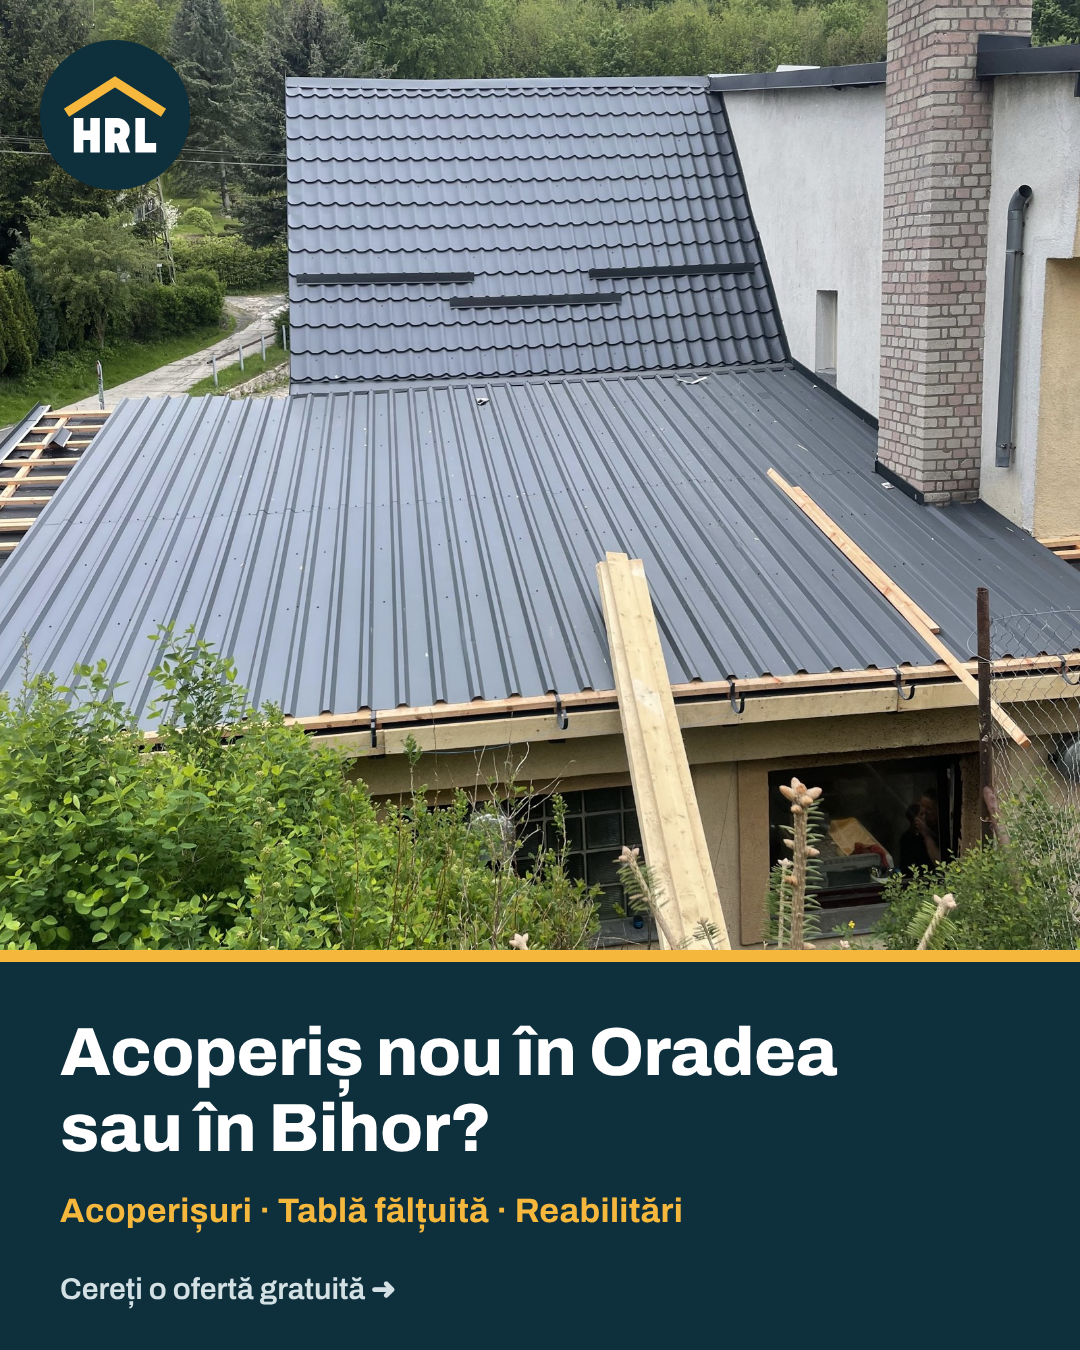
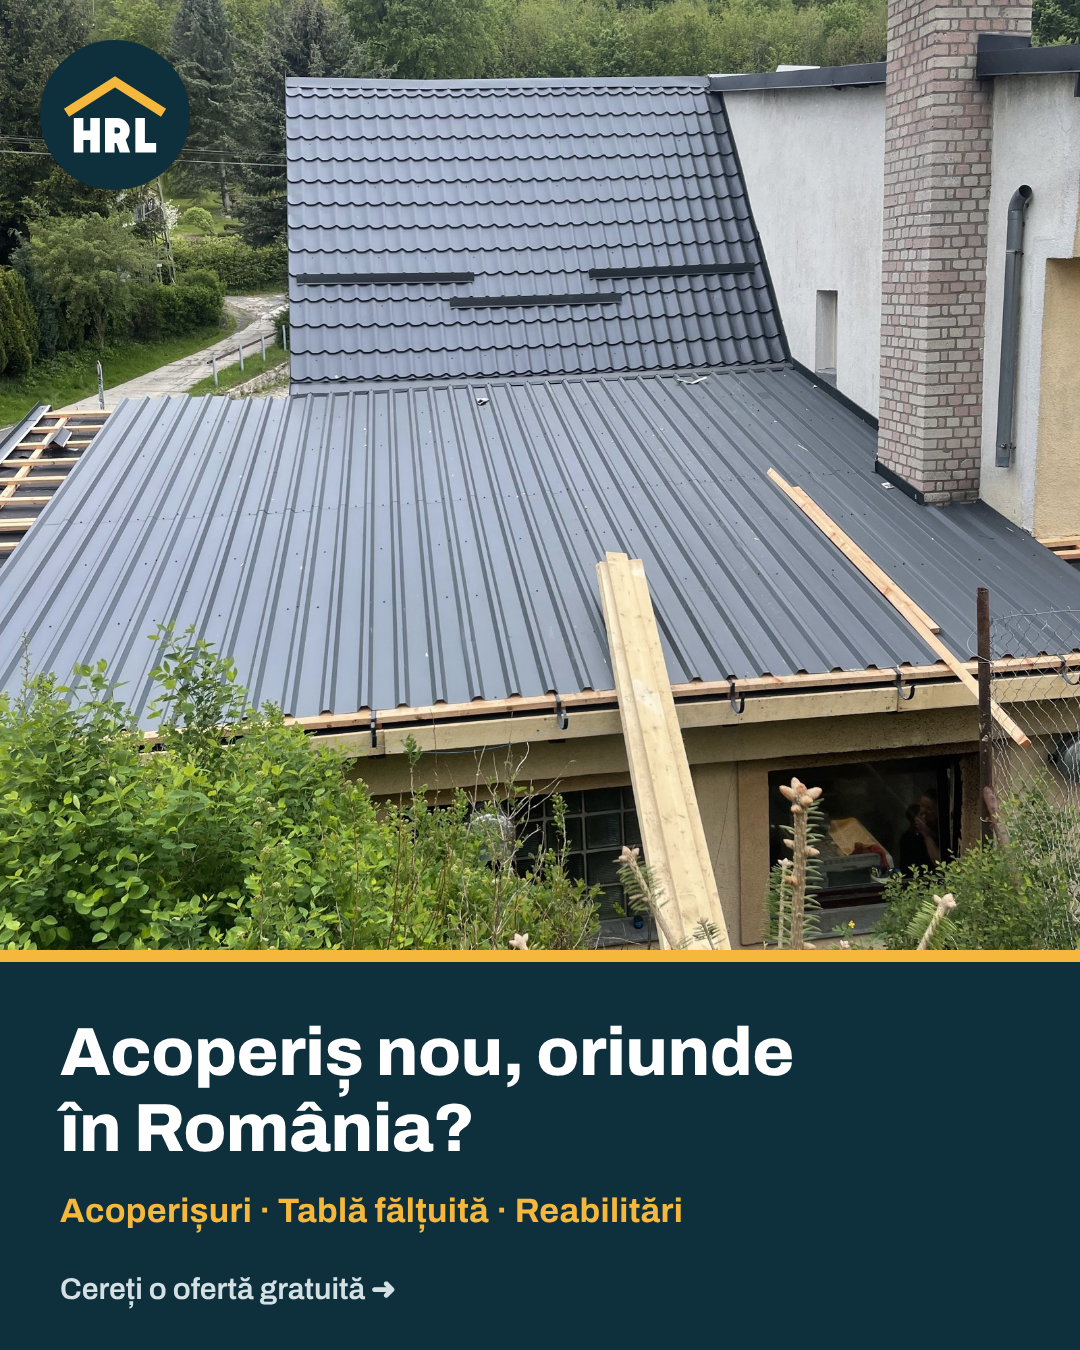
HRL Acoperișuri: works in all of Romania, texts, cover, privacy page and ads updated
Claude-Session: https://claude.ai/code/session_01UEuiXVKSENRnYrTC71c9hz

Changed region(s): [[0.0611, 0.8089, 0.4583, 0.8711], [0.4583, 0.7467, 0.7028, 0.8089], [0.7333, 0.7467, 0.7944, 0.8089]]

diff --git a/hrl-acoperisuri/brand/sursa-brand.html b/hrl-acoperisuri/brand/sursa-brand.html
@@ -19,7 +19,7 @@
 <br>
 <div class="logo light" id="logoalb"><svg xmlns="http://www.w3.org/2000/svg" viewBox="0 -3 120 93" role="img" aria-label="HRL Acoperișuri"><polyline points="4,41 60,5 116,41" fill="none" stroke="#F5B83D" stroke-width="11" stroke-linejoin="miter" stroke-linecap="butt"/><path d="M18.0,47V87M37.0,47V87M18.0,67H37.0" stroke="#FFFFFF" stroke-width="11" fill="none"/><path d="M54.0,47V87M54.0,52.5H62.5A9,9 0 0 1 62.5,70.5H54.0" stroke="#FFFFFF" stroke-width="11" fill="none" stroke-linejoin="miter"/><polygon points="59.5,70 71.5,70 77.5,87 65.5,87" fill="#FFFFFF"/><path d="M89.0,47V81.5H107.5" stroke="#FFFFFF" stroke-width="11" fill="none" stroke-linejoin="miter"/></svg><div><div class="w1">HRL</div><div class="w2">ACOPERIȘURI</div></div></div>
 <div id="profil"><svg xmlns="http://www.w3.org/2000/svg" viewBox="0 -3 120 93" role="img" aria-label="HRL Acoperișuri"><polyline points="4,41 60,5 116,41" fill="none" stroke="#F5B83D" stroke-width="11" stroke-linejoin="miter" stroke-linecap="butt"/><path d="M18.0,47V87M37.0,47V87M18.0,67H37.0" stroke="#FFFFFF" stroke-width="11" fill="none"/><path d="M54.0,47V87M54.0,52.5H62.5A9,9 0 0 1 62.5,70.5H54.0" stroke="#FFFFFF" stroke-width="11" fill="none" stroke-linejoin="miter"/><polygon points="59.5,70 71.5,70 77.5,87 65.5,87" fill="#FFFFFF"/><path d="M89.0,47V81.5H107.5" stroke="#FFFFFF" stroke-width="11" fill="none" stroke-linejoin="miter"/></svg></div>
-<div id="coperta"><div class="logo light"><svg xmlns="http://www.w3.org/2000/svg" viewBox="0 -3 120 93" role="img" aria-label="HRL Acoperișuri"><polyline points="4,41 60,5 116,41" fill="none" stroke="#F5B83D" stroke-width="11" stroke-linejoin="miter" stroke-linecap="butt"/><path d="M18.0,47V87M37.0,47V87M18.0,67H37.0" stroke="#FFFFFF" stroke-width="11" fill="none"/><path d="M54.0,47V87M54.0,52.5H62.5A9,9 0 0 1 62.5,70.5H54.0" stroke="#FFFFFF" stroke-width="11" fill="none" stroke-linejoin="miter"/><polygon points="59.5,70 71.5,70 77.5,87 65.5,87" fill="#FFFFFF"/><path d="M89.0,47V81.5H107.5" stroke="#FFFFFF" stroke-width="11" fill="none" stroke-linejoin="miter"/></svg><div><div class="w1">HRL</div><div class="w2">ACOPERIȘURI</div></div></div><div class="tag">Acoperișuri · Tablă fălțuită · Case modulare · Oradea și Bihor</div></div>
+<div id="coperta"><div class="logo light"><svg xmlns="http://www.w3.org/2000/svg" viewBox="0 -3 120 93" role="img" aria-label="HRL Acoperișuri"><polyline points="4,41 60,5 116,41" fill="none" stroke="#F5B83D" stroke-width="11" stroke-linejoin="miter" stroke-linecap="butt"/><path d="M18.0,47V87M37.0,47V87M18.0,67H37.0" stroke="#FFFFFF" stroke-width="11" fill="none"/><path d="M54.0,47V87M54.0,52.5H62.5A9,9 0 0 1 62.5,70.5H54.0" stroke="#FFFFFF" stroke-width="11" fill="none" stroke-linejoin="miter"/><polygon points="59.5,70 71.5,70 77.5,87 65.5,87" fill="#FFFFFF"/><path d="M89.0,47V81.5H107.5" stroke="#FFFFFF" stroke-width="11" fill="none" stroke-linejoin="miter"/></svg><div><div class="w1">HRL</div><div class="w2">ACOPERIȘURI</div></div></div><div class="tag">Acoperișuri · Tablă fălțuită · Case modulare · În toată România</div></div>
 <script>
 // "ACOPERIȘURI" is spread to the width of "HRL" once the font has loaded.
 document.fonts.ready.then(()=>{for(const l of document.querySelectorAll('.logo')){const a=l.querySelector('.w1'),c=l.querySelector('.w2'),r=document.createRange();

diff --git a/hrl-acoperisuri/reclame/sursa.html b/hrl-acoperisuri/reclame/sursa.html
@@ -13,13 +13,13 @@
 .ad .cta{position:absolute;left:60px;bottom:44px;color:#D3E1E5;font-weight:600;font-size:30px}
 </style></head><body>
 <div class="ad" id="r1"><img class="foto" src="foto-01-acoperis-tabla-gri-cu-cos.jpg" style="object-position:50% 45%"><div class="badge"><img src="../brand/simbol-fundal-inchis.svg"></div>
-<div class="panel"><h1>Acoperiș nou în Oradea<br>sau în Bihor?</h1><p>Acoperișuri · Tablă fălțuită · Reabilitări</p><div class="cta">Cereți o ofertă gratuită ➜</div></div></div>
+<div class="panel"><h1>Acoperiș nou, oriunde<br>în România?</h1><p>Acoperișuri · Tablă fălțuită · Reabilitări</p><div class="cta">Cereți o ofertă gratuită ➜</div></div></div>
 <div class="ad" id="r2"><img class="foto" src="foto-06-tigla-metalica-maro.jpg" style="object-position:50% 40%"><div class="badge"><img src="../brand/simbol-fundal-inchis.svg"></div>
-<div class="panel"><h1>Schimbați acoperișul<br>înainte de iarnă.</h1><p>Oradea și tot județul Bihor</p><div class="cta">Cereți o ofertă gratuită ➜</div></div></div>
+<div class="panel"><h1>Schimbați acoperișul<br>înainte de iarnă.</h1><p>În toată România</p><div class="cta">Cereți o ofertă gratuită ➜</div></div></div>
 <div class="ad" id="r3"><img class="foto" src="foto-05-ferme-sarpanta.jpg" style="object-position:30% 50%"><div class="badge"><img src="../brand/simbol-fundal-inchis.svg"></div>
 <div class="panel"><h1>Șarpante din lemn,<br>de la zero.</h1><p>Acoperișuri · Construcții din lemn</p><div class="cta">Cereți o ofertă gratuită ➜</div></div></div>
 <div class="ad" id="r4"><img class="foto" src="foto-07-acoperis-nou-fronton-lemn.jpg" style="object-position:40% 40%"><div class="badge"><img src="../brand/simbol-fundal-inchis.svg"></div>
-<div class="panel"><h1>Acoperișuri noi,<br>în tot județul Bihor.</h1><p>Oradea, comune și sate</p><div class="cta">Cereți o ofertă gratuită ➜</div></div></div>
+<div class="panel"><h1>Acoperișuri noi,<br>în toată țara.</h1><p>Orașe, comune și sate</p><div class="cta">Cereți o ofertă gratuită ➜</div></div></div>
 <div class="ad" id="r5"><img class="foto" src="foto-02-structura-din-lemn-in-montaj.jpg" style="object-position:50% 30%"><div class="badge"><img src="../brand/simbol-fundal-inchis.svg"></div>
-<div class="panel"><h1>Construcții din lemn<br>și terase.</h1><p>Oradea și tot județul Bihor</p><div class="cta">Cereți o ofertă gratuită ➜</div></div></div>
+<div class="panel"><h1>Construcții din lemn<br>și terase.</h1><p>În toată România</p><div class="cta">Cereți o ofertă gratuită ➜</div></div></div>
 </body></html>

diff --git a/hrl-acoperisuri/confidentialitate/index.html b/hrl-acoperisuri/confidentialitate/index.html
@@ -22,4 +22,4 @@ footer a{color:#fff}
 <h3>Cât timp le păstrăm</h3><p>Cel mult 90 de zile după încheierea campaniei, apoi sunt șterse, cu excepția cazului în care încheiați un contract cu firma.</p>
 <h3>Drepturile dumneavoastră</h3><p>Puteți cere oricând acces la date, corectarea sau ștergerea lor, vă puteți opune prelucrării și vă puteți retrage acordul dat în formularul din reclame. Scrieți-ne la <a href="mailto:ctoma0915@gmail.com">ctoma0915@gmail.com</a> sau pe WhatsApp la 0738 049 791. Aveți și dreptul de a depune plângere la ANSPDCP (www.dataprotection.ro).</p>
 <p style="color:#777;font-size:14px">Ultima actualizare: noiembrie 2026.</p>
-</section></main><footer>HRL Acoperișuri · Oradea și județul Bihor<br><a href="./">Politica de confidențialitate</a></footer></body></html>
+</section></main><footer>HRL Acoperișuri · În toată România<br><a href="./">Politica de confidențialitate</a></footer></body></html>

diff --git a/hrl-acoperisuri/README.md b/hrl-acoperisuri/README.md
@@ -5,7 +5,7 @@ Brand kit and texts for the Facebook page, Instagram account and WhatsApp Busine
 **The idea behind the texts:** short and practical. The customer sends a few photos, the town and the job, and gets an answer. The texts never promise prices, years in business, guarantees or numbers of jobs.
 
 **Before publishing:**
-- Area: Oradea and every town and village in Bihor and nearby (confirmed by Toma, 16 Nov 2026).
+- Area: all of Romania (confirmed by Toma, 18 Nov 2026; until then it was Oradea and Bihor).
 - Customer number: 0738 049 791 (confirmed by Toma, 16 Nov 2026). It is used everywhere: buttons, WhatsApp link and About text.
 - Services: the list below is the full list he gave Toma (16 Nov 2026). Don't add others.
 - Posts: only his own photos and jobs. No stock photos presented as his work.
@@ -40,13 +40,13 @@ Files are in `brand/` (`sursa-brand.html` regenerates them):
 | Page name | HRL Acoperișuri |
 | Category | Roofing Service (Serviciu de acoperișuri), plus Contractor and Home Improvement |
 | Username | `hrlacoperisuri` (if taken: `hrl.acoperisuri`) |
-| Bio (max 101 characters; this one is 97) | `Acoperișuri, tablă fălțuită, case modulare, terase și reabilitări în Oradea și tot județul Bihor.` |
-| Service area | Oradea, plus Bihor County (*Județul Bihor*) |
+| Bio (max 101 characters; this one is 84) | `Acoperișuri, tablă fălțuită, case modulare, terase și reabilitări, în toată România.` |
+| Service area | Romania |
 | Button | Send WhatsApp message (*Trimiteți mesaj pe WhatsApp*), number 0738 049 791 |
 
 **Details / About:**
 ```
-HRL Acoperișuri lucrează în Oradea și în toate comunele, satele și localitățile din județul Bihor și din împrejurimi.
+HRL Acoperișuri lucrează în toată România: în orașe, comune și sate.
 
 Ce facem:
 • Acoperișuri
@@ -64,7 +64,7 @@ Cum cereți o ofertă:
 Vă răspundem cu pașii următori și o ofertă.
 
 WhatsApp: wa.me/40738049791
-Zona: Oradea, tot județul Bihor și împrejurimile.
+Zona: toată România.
 ```
 
 ## Instagram
@@ -76,11 +76,11 @@ Zona: Oradea, tot județul Bihor și împrejurimile.
 | Category | Roofing Service |
 | Link | `https://wa.me/40738049791`, titled `Trimiteți poze pe WhatsApp` |
 
-**Bio** (max 150 characters; this one is 139, or 143 if Instagram counts each emoji as 2):
+**Bio** (max 150 characters; this one is 135, at most 141 if Instagram counts emoji as 2):
 ```
 🏠 Acoperișuri · Tablă fălțuită · Case modulare
 🪵 Construcții din lemn · Terase · Reabilitări
-📍 Oradea și județul Bihor
+📍 În toată România 🇷🇴
 📷 Poze pe WhatsApp 👇
 ```
 
@@ -92,7 +92,7 @@ Zona: Oradea, tot județul Bihor și împrejurimile.
 - **Category:** Home Improvement (*Îmbunătățiri pentru locuință*)
 - **Description:**
 ```
-Acoperișuri, tablă fălțuită, case modulare (lemn, polistiren, structură metalică), construcții din lemn, terase, reabilitări și monumente istorice. Oradea și tot județul Bihor. Trimiteți-ne poze, localitatea și ce lucrare doriți, și vă răspundem cu o ofertă.
+Acoperișuri, tablă fălțuită, case modulare (lemn, polistiren, structură metalică), construcții din lemn, terase, reabilitări și monumente istorice. În toată România. Trimiteți-ne poze, localitatea și ce lucrare doriți, și vă răspundem cu o ofertă.
 ```
 - **Greeting message:**
 ```
@@ -128,7 +128,7 @@ Built from `../playbooks/meta-lead-form.md`. Create it in **business.facebook.co
    - `Reparație sau reabilitare`
    - `Casă modulară`
    - `Terasă sau construcție din lemn`
-2. Prefill: **Full name**, **Phone number**. Nothing else (the ads target Oradea and Bihor; ask the address on the call).
+2. Prefill: **Full name**, **Phone number**. Because he works nationally, also add **City** (*Oraș*): it is prefilled, so it costs no typing. Nothing else.
 
 **Privacy policy:** text `Politica de confidențialitate`, link `https://ctoma0915-bit.github.io/Business-grower/hrl-acoperisuri/confidentialitate/`
 
@@ -145,10 +145,10 @@ Images are in `reclame/` (1080×1350; `sursa.html` regenerates them). All five u
 
 | # | Image | Photo | Headline on image |
 |---|---|---|---|
-| 1 | `reclama-1-acoperis-nou.png` | Metal tile and grey trapezoidal sheet roof | Acoperiș nou în Oradea sau în Bihor? |
+| 1 | `reclama-1-acoperis-nou.png` | Metal tile and grey trapezoidal sheet roof | Acoperiș nou, oriunde în România? |
 | 2 | `reclama-2-iarna.png` | Brown metal tile roof | Schimbați acoperișul înainte de iarnă. |
 | 3 | `reclama-3-sarpante.png` | Timber roof trusses | Șarpante din lemn, de la zero. |
-| 4 | `reclama-4-bihor.png` | Team laying red tiles | Acoperișuri noi, în tot județul Bihor. |
+| 4 | `reclama-4-romania.png` | Team laying red tiles | Acoperișuri noi, în toată țara. |
 | 5 | `reclama-5-lemn-terase.png` | Timber structure being built | Construcții din lemn și terase. |
 
 No modular-house ad yet: there is no photo of one. Add it when he sends one.
@@ -159,7 +159,7 @@ Use only his real photos and jobs. Don't invent numbers, years or guarantees. Fi
 
 1. **Introduction:** a photo of a job he finished (or the cover image if he has none yet), plus:
    ```
-   Bine ați venit la HRL Acoperișuri! Facem acoperișuri, tablă fălțuită, case modulare, construcții din lemn, terase și reabilitări, în Oradea și în tot județul Bihor. Trimiteți-ne pe WhatsApp câteva poze și vă spunem ce e de făcut: wa.me/40738049791
+   Bine ați venit la HRL Acoperișuri! Facem acoperișuri, tablă fălțuită, case modulare, construcții din lemn, terase și reabilitări, în toată România. Trimiteți-ne pe WhatsApp câteva poze și vă spunem ce e de făcut: wa.me/40738049791
    ```
 2. **A finished job:** his own before and after photos, plus:
    ```
@@ -178,4 +178,4 @@ Use only his real photos and jobs. Don't invent numbers, years or guarantees. Fi
 
 1. He (or Toma, with access for him) creates the Facebook page, Instagram account and WhatsApp Business profile with these texts, then adds Toma as a page admin.
 2. Upload `brand/profil-1080.png` as the profile picture and `brand/coperta-facebook-1640x624.png` as the Facebook cover.
-3. Lead form and ads: follow `../playbooks/meta-lead-form.md`. Target Oradea and Bihor County. Other roofing clients advertise in București and Ilfov, so there is no area overlap.
+3. Lead form and ads: follow `../playbooks/meta-lead-form.md`. Target all of Romania except București and Ilfov, where other roofing clients already advertise, unless Toma decides otherwise.
